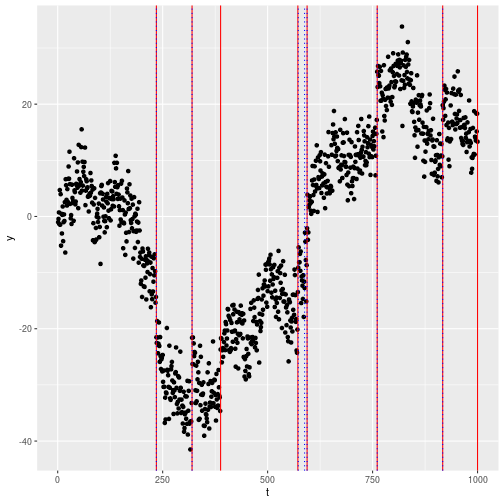
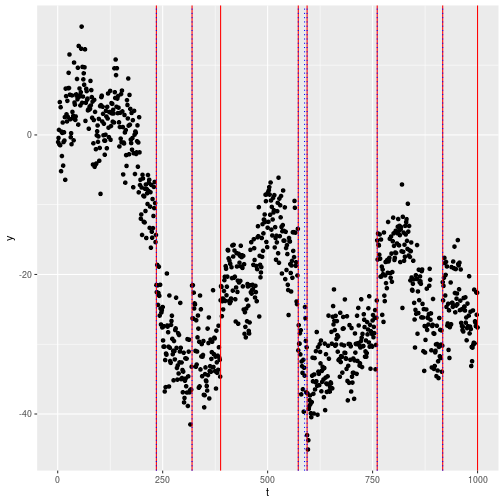
bugfix on l2-FPOP AR recursion that caused two consegutive taus to be picked as change-points

diff --git a/src/fpopmain.cpp b/src/fpopmain.cpp
@@ -20,14 +20,12 @@ int whichMin(const std::vector<Type>& v) {
 vector<int> FPOPmain (vector<double> &y, double &l0penalty, double &l2penalty, double& gamma, std::string type) {
   int N = y.size();
   vector<quad> Q = {addNewPoint(quad(0, -INFINITY, INFINITY, 0, 0, 0), y[0])};
+  vector<quad> Qold = Q;
   
-  
-  if (gamma != 1.0) {for_each(Q.begin(), Q.end(), [&gamma, &y](quad& q) {divideByGamma(q, gamma, y[0] * (1-gamma));});}
+  //if (gamma != 1.0) {for_each(Q.begin(), Q.end(), [&gamma, &y](quad& q) {divideByGamma(q, gamma, y[0] * (1-gamma));});}
   vector<int> taus;
 
   for (size_t t = 1; t < N; t++) {
-    
-
     
     //getting the minimum in Q and the relative tau
     std::vector<double> mins(Q.size());
@@ -35,11 +33,11 @@ vector<int> FPOPmain (vector<double> &y, double &l0penalty, double &l2penalty, d
     auto tau_ind = whichMin(mins); //auto tau_ind = distance(mins.begin(), min_element(mins.begin(), mins.end()));
     taus.push_back(tau(Q[tau_ind]));
     
-
-
+    
     // applying the l2transformation
-    if (l2penalty != INFINITY) { Q = applyl2Penalty(Q, l2penalty, y); }
-
+    if (l2penalty != INFINITY) { Qold = applyl2Penalty(Qold, l2penalty, y);}
+    
+    
     vector<quad> constraint;
     if (type == "std") {
       // performing the minimization (pruning with a line at height F + beta)
@@ -61,18 +59,20 @@ vector<int> FPOPmain (vector<double> &y, double &l0penalty, double &l2penalty, d
       break;
     }
 
-    Q = getMinOfTwoQuads(Q, constraint);
+    Q = getMinOfTwoQuads(Qold, constraint);
     
+    
+
     // updating the values in each piecewise quadtratic in Q
     transform(Q.begin(), Q.end(), Q.begin(), [&y, &t](quad& q){return addNewPoint(q, y[t]);});
-    //cout << "after update" << endl; print_costf(Q);
-    
     //cout << "Cost function after the UPDATE" << endl; print_costf(Q);
+    Qold = Q;    
+    
+    // diving by the autoregressive parameter
+    if (gamma != 1.0) {for_each(Q.begin(), Q.end(), [&gamma, &y, &t](quad& q) {divideByGamma(q, gamma, (y[t] - gamma * y[t-1]));});}
+    
     //cout << "------------------------------\n" << endl;
     //cout << "Press enter to continue" << endl; cin.get();
-    if (gamma != 1.0) {
-      for_each(Q.begin(), Q.end(), [&gamma, &y, &t](quad& q) {divideByGamma(q, gamma, (y[t] - gamma * y[t-1]));});
-    }
     
   }
   

diff --git a/README.tex.md b/README.tex.md
@@ -184,7 +184,7 @@ ggplot(data.frame(t = 1:length(y), y), aes(x = t, y = y)) +
   geom_vline(xintercept = Y[["cp"]], col = 4,  lty = 3)
 ```
 
-![plot of chunk unnamed-chunk-4](figure/unnamed-chunk-4-1.png)
+![plot of chunk unnamed-chunk-8](figure/unnamed-chunk-8-1.png)
 
 ### Isotonic regression
 
